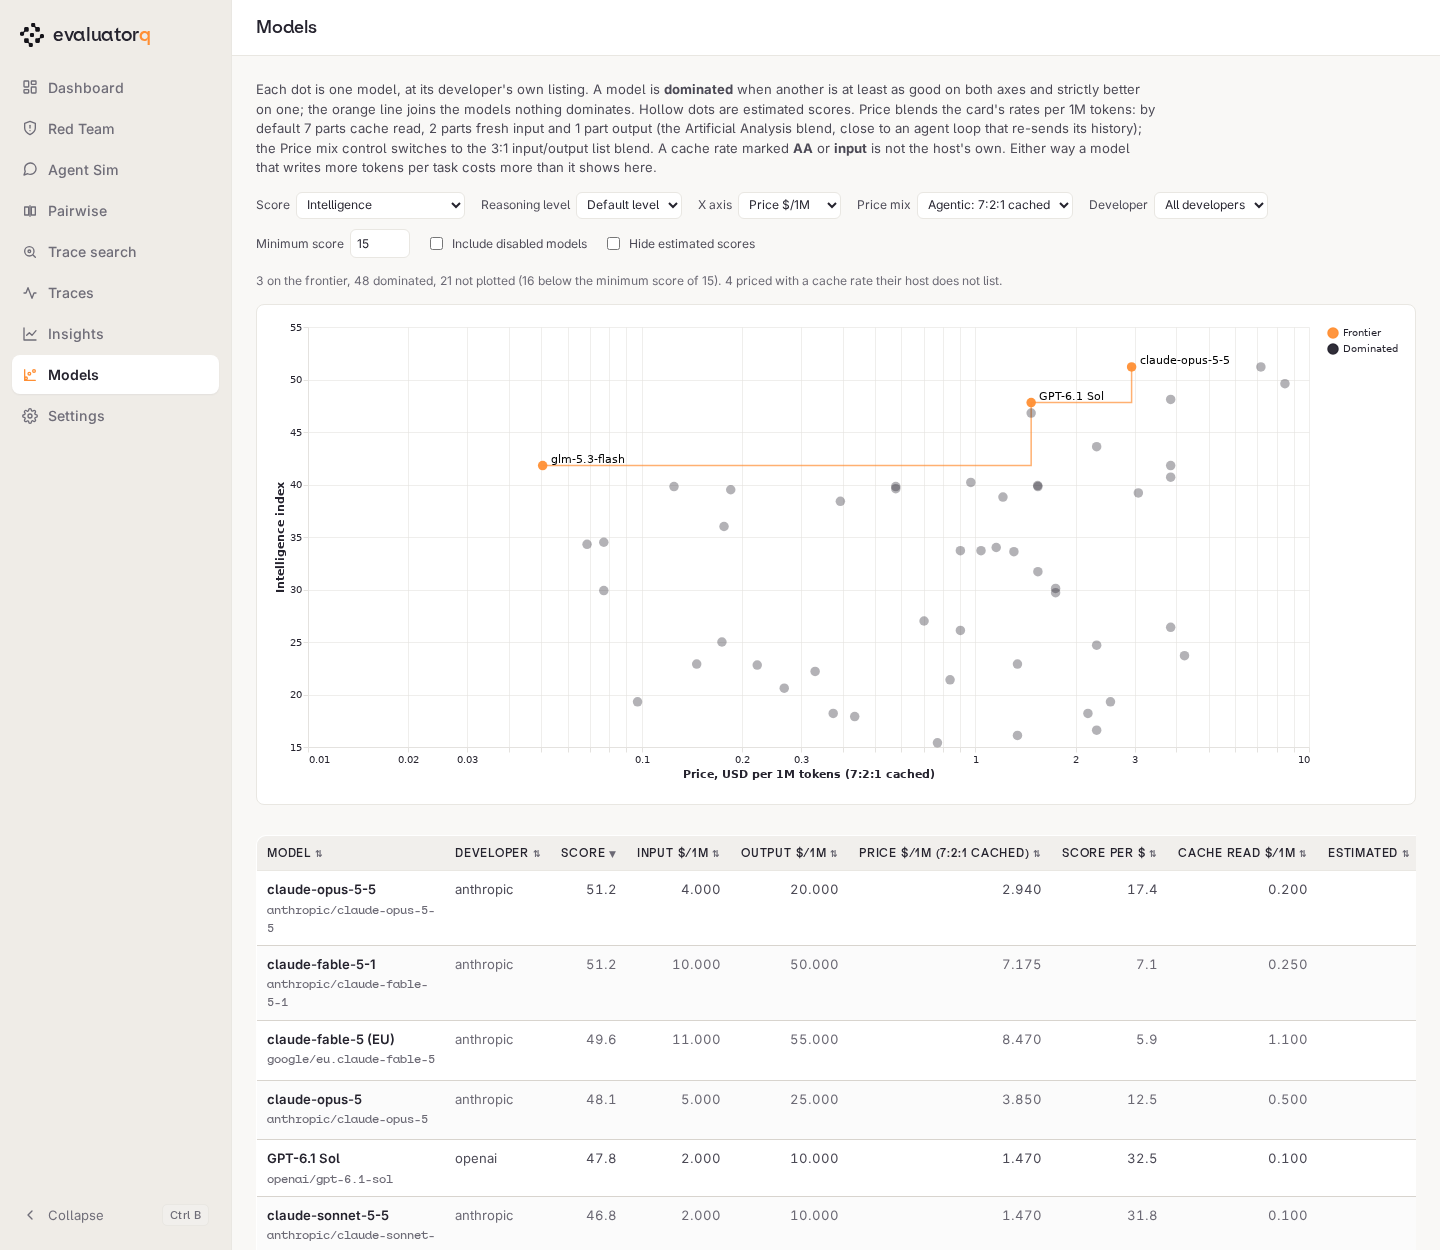
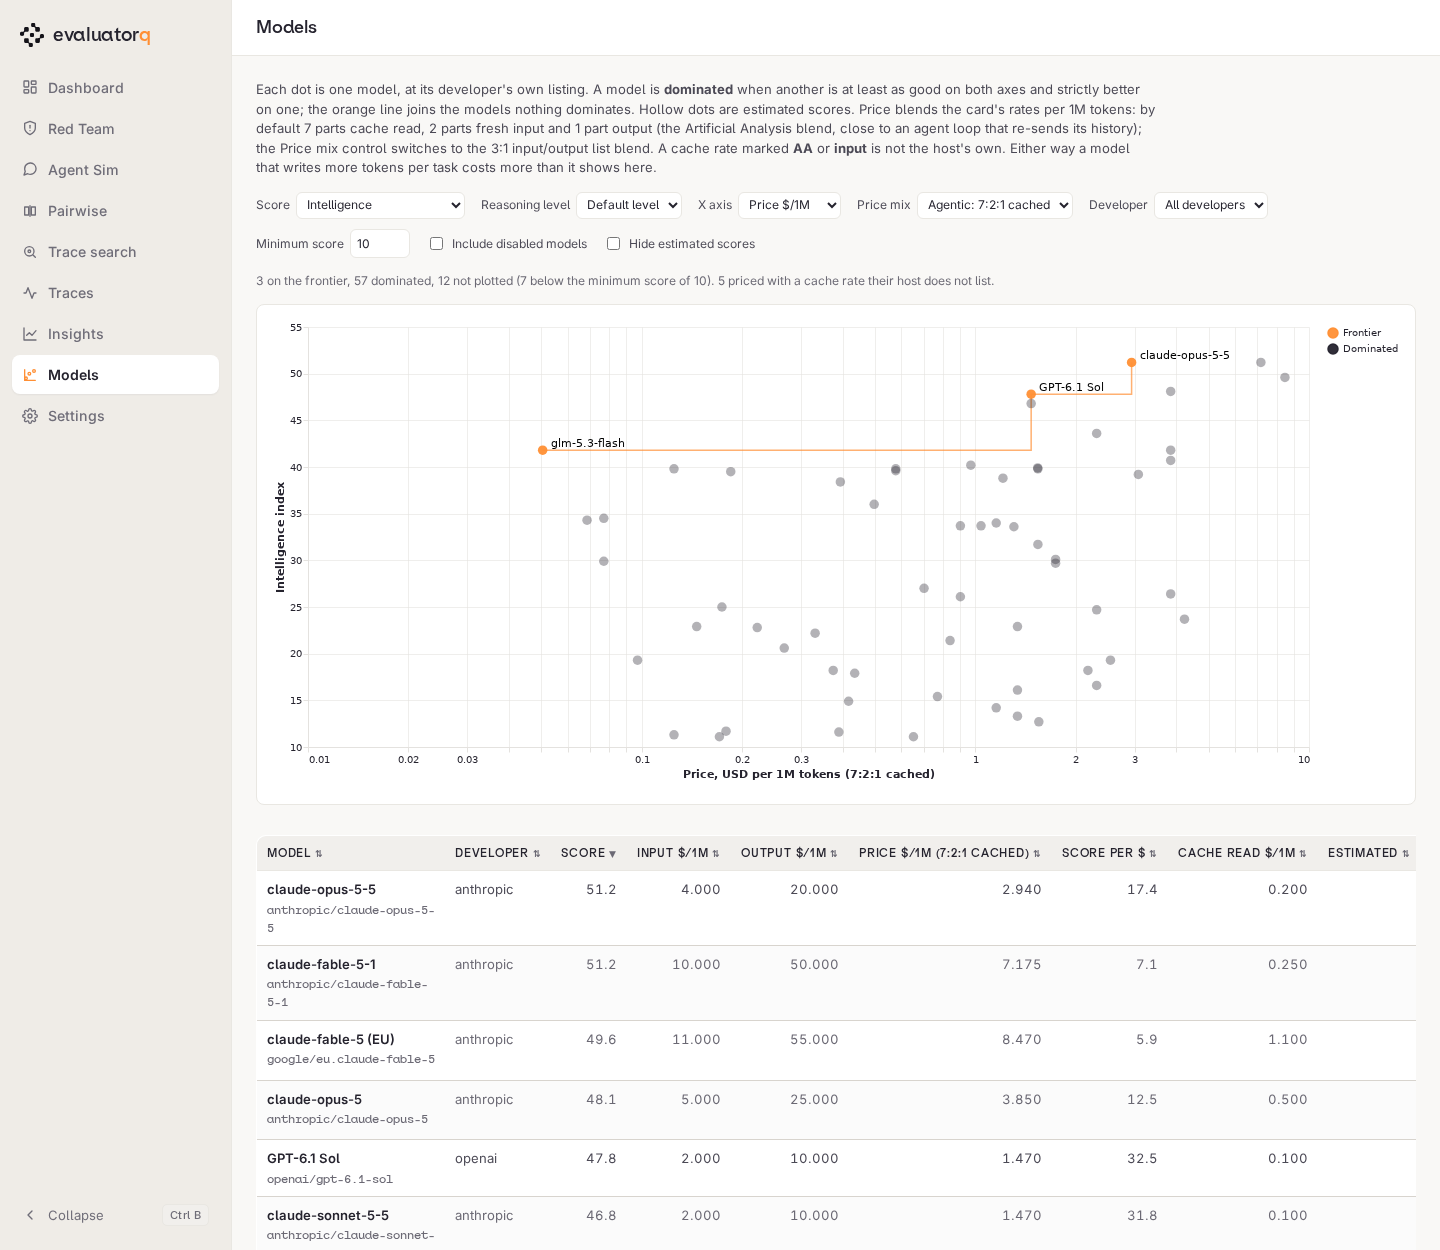
docs: follow the Pareto floor from 15 to 10 after merging main
Main lowered MIN_SEAT_INDEX to 10, which is also the Pareto view's default minimum score. Update the documented default, the dated counts and console blocks, and retake the three Models page screenshots on the merged branch.

diff --git a/docs/model-pareto.md b/docs/model-pareto.md
@@ -44,7 +44,7 @@ $ eq models pareto
 │ zai/glm-5.3-flash         │  41.8 │                     0.051 │       827.7 │           0.015 │      │ yes      │
 ╰───────────────────────────┴───────┴───────────────────────────┴─────────────┴─────────────────┴──────┴──────────╯
 Price blends the rates per 1M tokens as 7:0:2:1 (cache read : cache write : fresh input : output). Pass --mix list for the 3:1 input/output list blend.
-16 model(s) hidden for scoring below --min-score 15. Pass --min-score 0 to show every model.
+7 model(s) hidden for scoring below --min-score 10. Pass --min-score 0 to show every model.
 5 model(s) not compared: no value on one of the axes, or filtered out. Use --json for the reason per model.
 ```
 
@@ -52,7 +52,7 @@ Read the table from the top down: each row is cheaper than the one above it and 
 
 ## The quality floor
 
-Models scoring below 15 are left out before the frontier is drawn. Without the floor, the cheap end of the frontier can hold models that are there only because nothing is cheaper: on 2026-11-23, with the floor off and the 3:1 list blend, the frontier adds `tensorix/qwen/qwen3-coder-30b-a3b-instruct` at a score of 9.6 and $0.107 per 1M tokens. On the default blend the same day, the frontier was the same three models with or without the floor, so there the floor only removed dominated models from `--dominated`, `--json` and the dashboard chart. 15 is the same floor evaluatorq uses when it picks default models for its own roles, `MIN_SEAT_INDEX`.
+Models scoring below 10 are left out before the frontier is drawn. Without the floor, the cheap end of the frontier can hold models that are there only because nothing is cheaper: on 2026-11-23, with the floor off and the 3:1 list blend, the frontier adds `tensorix/qwen/qwen3-coder-30b-a3b-instruct` at a score of 9.6 and $0.107 per 1M tokens. On the default blend the same day, the frontier was the same three models with or without the floor, so there the floor only removed dominated models from `--dominated`, `--json` and the dashboard chart. 10 is the same floor evaluatorq uses when it picks default models for its own roles, `MIN_SEAT_INDEX`.
 
 Set the floor with `--min-score` or `min_score=`. `--min-score 0` or `min_score=None` shows every model:
 
@@ -87,7 +87,7 @@ $ eq models pareto --min-score 0 --mix list
 5 model(s) not compared: no value on one of the axes, or filtered out. Use --json for the reason per model.
 ```
 
-The floor applies to whichever score you put on the y axis, so with `--index legal` it compares legal scores against 15. The domain indices use the same 0 to 100 scale, but AA scores fewer and mostly stronger models on them, so the floor removes fewer: on 2026-11-23, after one listing per model, it left out 3 of the 38 models with a legal score and a price, against 16 of the 67 with an intelligence score and a price. The floor does not change which of the remaining models are on the frontier, because a model that beats another one scores at least as high and so clears the floor too.
+The floor applies to whichever score you put on the y axis, so with `--index legal` it compares legal scores against 10. The domain indices use the same 0 to 100 scale, but AA scores fewer and mostly stronger models on them, so the floor removes fewer: on 2026-11-23, after one listing per model, it left out 1 of the 38 models with a legal score and a price, against 7 of the 67 with an intelligence score and a price. The floor does not change which of the remaining models are on the frontier, because a model that beats another one scores at least as high and so clears the floor too.
 
 ## Is my model dominated?
 
@@ -123,7 +123,7 @@ $ eq models pareto --model claude-sonnet-5-5
 │ anthropic/claude-sonnet-5-5 │  46.8 │                     1.470 │        31.8 │           0.100 │      │ openai/gpt-6.1-sol │
 ╰─────────────────────────────┴───────┴───────────────────────────┴─────────────┴─────────────────┴──────┴────────────────────╯
 Price blends the rates per 1M tokens as 7:0:2:1 (cache read : cache write : fresh input : output). Pass --mix list for the 3:1 input/output list blend.
-16 model(s) hidden for scoring below --min-score 15. Pass --min-score 0 to show every model.
+7 model(s) hidden for scoring below --min-score 10. Pass --min-score 0 to show every model.
 5 model(s) not compared: no value on one of the axes, or filtered out. Use --json for the reason per model.
 ```
 
@@ -143,7 +143,7 @@ $ eq models pareto --model claude-sonnet-5-5 --index legal --json 2>/dev/null
   "x": "price",
   "x_label": "Price, USD per 1M tokens (7:2:1 cached)",
   "mix": {"read": 7.0, "write": 0.0, "fresh": 2.0, "output": 1.0, "name": "agentic", "tag": "7:2:1 cached"},
-  "min_score": 15.0,
+  "min_score": 10.0,
   "points": [
     {
       "router_id": "anthropic/claude-sonnet-5-5",
@@ -159,7 +159,7 @@ $ eq models pareto --model claude-sonnet-5-5 --index legal --json 2>/dev/null
   ],
   "excluded": [
     {"router_id": "alibaba/qwen3.5-27b", "reason": "no legal score", "below_min_score": false},
-    {"router_id": "cerebras/gpt-oss-120b", "reason": "score 11.3 is below min_score 15", "below_min_score": true}
+    {"router_id": "groq/openai/gpt-oss-20b", "reason": "score 7.3 is below min_score 10", "below_min_score": true}
   ],
   "left_out_by_provider": 0
 }
@@ -167,7 +167,7 @@ $ eq models pareto --model claude-sonnet-5-5 --index legal --json 2>/dev/null
 
 Read `x` for the blended price. Each point also carries a `price` field, and `price` is always the 3:1 list blend whatever `mix` says. The output above is trimmed: each point also carries every `ScoredModel` field (prices including `cache_read_price` and `aa_cache_read_price`, developer, effort ladder, domain scores, speed and latency), and `excluded` lists every model left out, with `below_min_score` set on the ones the quality floor removed. The JSON lists only the models you asked for; `dominators` names the winners but does not carry their scores. Run without `--model` to see the winner's row. Log lines go to stderr, so `2>/dev/null` leaves clean JSON on stdout.
 
-A model below the floor is not compared, so `--model` with it prints `<id> is not plotted: score <n> is below min_score 15.` on stderr and `No models on the frontier for these filters.` on stdout; add `--min-score 0` to compare it. `dominated_by()` in Python applies no floor.
+A model below the floor is not compared, so `--model` with it prints `<id> is not plotted: score <n> is below min_score 10.` on stderr and `No models on the frontier for these filters.` on stdout; add `--min-score 0` to compare it. `dominated_by()` in Python applies no floor.
 
 A bare id such as `gpt-6.1-sol` must match exactly one model; otherwise the CLI exits `2` and `find_model` returns `None`. A bare id works only for a two-part id such as `openai/gpt-6.1-sol`: for a three-part id such as `tensorix/qwen/qwen3-coder-30b-a3b-instruct`, pass the full id. `--model` only sees the one listing kept per model (see [One dot per model](#one-dot-per-model)), so the full id of a host that was not kept also exits `2`. Comparing a specific host is Python-only, through `load_models(all_hosts=True)`.
 
@@ -241,7 +241,7 @@ $ eq models pareto --mix 7:1:1:1
 ╰───────────────────────────┴───────┴──────────────────────┴─────────────┴─────────────────┴──────────────────┴──────┴──────────╯
 Price blends the rates per 1M tokens as 7:1:1:1 (cache read : cache write : fresh input : output). Pass --mix list for the 3:1 input/output list blend.
 1 shown model(s) price a cache rate their host does not list: (AA) is the Artificial Analysis price on the same card, (input) bills those tokens at the input rate.
-16 model(s) hidden for scoring below --min-score 15. Pass --min-score 0 to show every model.
+7 model(s) hidden for scoring below --min-score 10. Pass --min-score 0 to show every model.
 5 model(s) not compared: no value on one of the axes, or filtered out. Use --json for the reason per model.
 ```
 
@@ -272,7 +272,7 @@ Price blends the rates per 1M tokens as 7:0:2:1 (cache read : cache write : fres
 70 model(s) from other providers left out by --provider.
 ```
 
-On 2026-11-23, across every host, 108 of the 119 listings with a price and an intelligence score list their own cache-read rate, 6 fall back to the Artificial Analysis price and 5 to the input rate. With one listing per model and the default floor, 4 of the 51 compared models fall back on the cache-read rate, all to the input rate, and all of them Qwen models; the CLI footer counts only the rows it prints, while the dashboard summary counts every plotted model. A missing rate is often a catalogue gap rather than a real price: Azure OpenAI does discount cached input, but its cards list no cache rate.
+On 2026-11-23, across every host, 108 of the 119 listings with a price and an intelligence score list their own cache-read rate, 6 fall back to the Artificial Analysis price and 5 to the input rate. With one listing per model and the default floor, 5 of the 60 compared models fall back on the cache-read rate: four Qwen models to the input rate and `azure/gpt-4.1` to the Artificial Analysis price; the CLI footer counts only the rows it prints, while the dashboard summary counts every plotted model. A missing rate is often a catalogue gap rather than a real price: Azure OpenAI does discount cached input, but its cards list no cache rate.
 
 ### What the blend cannot see
 
@@ -303,7 +303,7 @@ A model is left out of the comparison, and listed under `excluded` in `--json` a
 | `free (no list price)` | a free model would beat everything on price |
 | `no output speed data`, `no time to first token data` | AA has no speed or latency measurement for the model |
 | `estimated score` | only with `--no-estimate` / `exclude_estimated=True`; estimated scores are compared by default |
-| `score 2.7 is below min_score 15` | the score is under `--min-score` / `min_score=` (see [The quality floor](#the-quality-floor)) |
+| `score 7.3 is below min_score 10` | the score is under `--min-score` / `min_score=` (see [The quality floor](#the-quality-floor)) |
 
 A left-out model is not dominated. It simply was not compared.
 

diff --git a/docs/cli-reference/models.md b/docs/cli-reference/models.md
@@ -19,7 +19,7 @@ eq models pareto [OPTIONS]
 | `--mix` | `str` / `agentic` | How `--x price` blends a card's rates. `agentic`: 7 cache read : 2 fresh input : 1 output, the Artificial Analysis blend, which is `7:0:2:1` as a ratio. `list`: 3 input : 1 output. Or a `READ:WRITE:FRESH:OUTPUT` ratio such as `7:1:1:1`. A share with a positive read or write weight adds a `Cache read $/1M` or `Cache write $/1M` column, where `(AA)` marks the Artificial Analysis price used because the host lists none and `(input)` marks the input rate used because the card has no cache price. Refused with any other `--x`. |
 | `--include-disabled` | `bool` / `false` | Include models switched off in the workspace. |
 | `--no-estimate` | `bool` / `false` | Leave out models whose score Orq estimated rather than measured. |
-| `--min-score` | `float` / `15` | Hide models scoring below this on the chosen index; they are listed under `excluded` with the reason `score <n> is below min_score <floor>`. `0` shows every model. Must be `0` or more. |
+| `--min-score` | `float` / `10` | Hide models scoring below this on the chosen index; they are listed under `excluded` with the reason `score <n> is below min_score <floor>`. `0` shows every model. Must be `0` or more. |
 | `--json` | `bool` / `false` | Print `{index, effort, x, x_label, mix, min_score, points, excluded, left_out_by_provider}` as JSON on stdout. `points` holds the rows the table would print: the frontier, the dominated models with `--dominated`, or the `--model` matches; `excluded` lists every model left out. Read `x` for the plotted value: a point's `price` is always the 3:1 list blend. `mix` is `null` off the price axis; each point carries `cache_read_source` (`host`, `artificial_analysis` or `input`) and `cache_write_source` (`host` or `input`), each `null` when the mix has no share of that kind. |
 
 `--provider` narrows the comparison itself: a model is then only checked against models from the same providers, so a model dominated in the full catalogue can be on the frontier of a filtered one. `--model` does the opposite: it narrows only what is printed. With both, the named model joins the comparison even when `--provider` would leave it out, and the output counts the models `--provider` left out.

diff --git a/docs/dashboard.md b/docs/dashboard.md
@@ -477,7 +477,7 @@ Download links respect the currently active filter state — the CSV/JSON export
 
 The **Models** page plots every model in the Orq catalogue as one dot, score against a blended price, and joins the models nothing beats with an orange line: the Pareto frontier. It reads the live catalogue, so it needs the same Orq account as trace search. Without one, the sidebar item is greyed out and the page says how to connect.
 
-![Models page on the default agentic price mix and minimum score of 15: three models on the frontier](assets/dashboard/models-01-frontier.png)
+![Models page on the default agentic price mix and minimum score of 10: three models on the frontier](assets/dashboard/models-01-frontier.png)
 
 The controls above the chart:
 
@@ -488,7 +488,7 @@ The controls above the chart:
 | **X axis** | Price, output speed or time to first token. | Price |
 | **Price mix** | **Agentic: 7:2:1 cached** (7 parts cache read, 2 parts fresh input, 1 part output) or **List: 3:1 input/output**. Greyed out on the other x axes. | Agentic |
 | **Developer** | Plots one developer's models. | All developers |
-| **Minimum score** | Hides models scoring below it on the chosen score; `0` plots every model. | 15 |
+| **Minimum score** | Hides models scoring below it on the chosen score; `0` plots every model. | 10 |
 | **Include disabled models** | Adds models switched off in the workspace. | Off |
 | **Hide estimated scores** | Drops the hollow dots, which are scores Orq estimated rather than measured. | Off |
 

diff --git a/docs/assets/dashboard/README.md b/docs/assets/dashboard/README.md
@@ -39,7 +39,7 @@ Older screenshots use `sim:refund-agent-fixed` — 10 personas × 5 scenarios = 
 
 ## Models — `models-*.png`
 
-Captured on 2026-11-23 against the live Orq catalogue (72 models after keeping one listing per model), 1440×1250 viewport, top of the page, light theme, headless Chromium, with `eq dashboard` on the branch's defaults: agentic price mix (7:2:1 cached), minimum score 15.
+Captured on 2026-11-23 against the live Orq catalogue (72 models after keeping one listing per model), 1440×1250 viewport, top of the page, light theme, headless Chromium, with `eq dashboard` on the branch's defaults: agentic price mix (7:2:1 cached), minimum score 10.
 
 | File | Page |
 |---|---|
